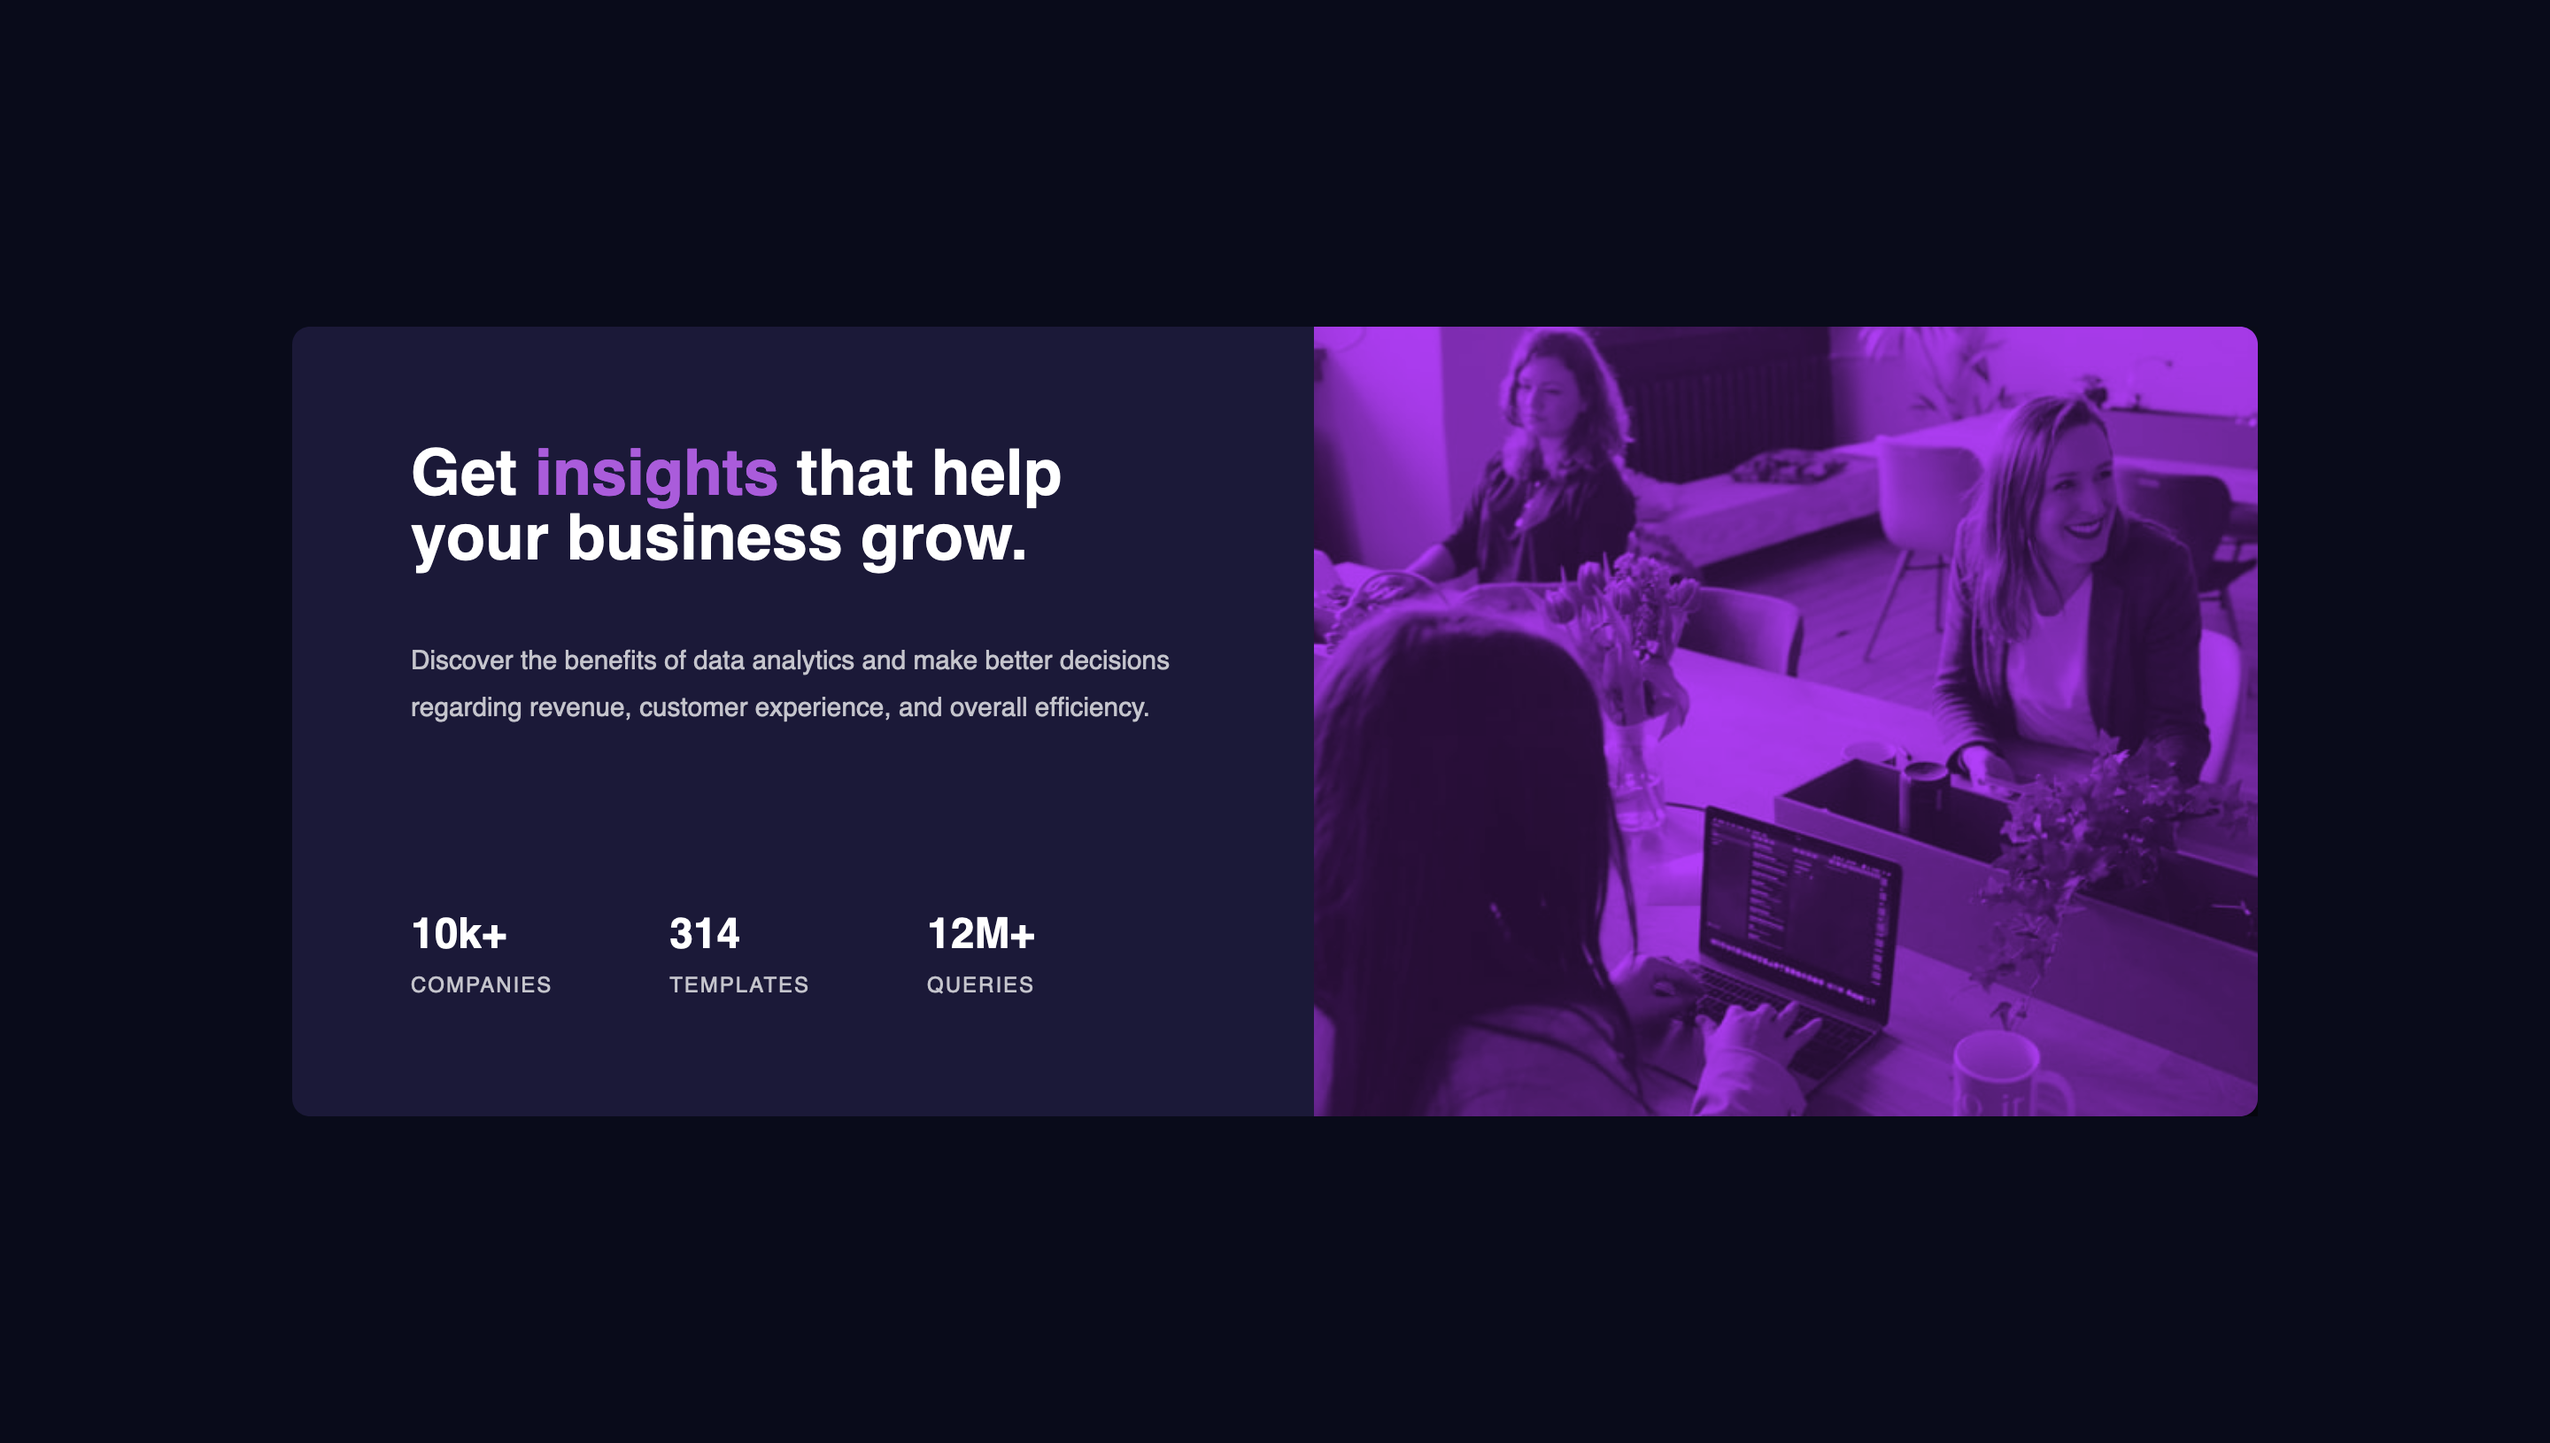
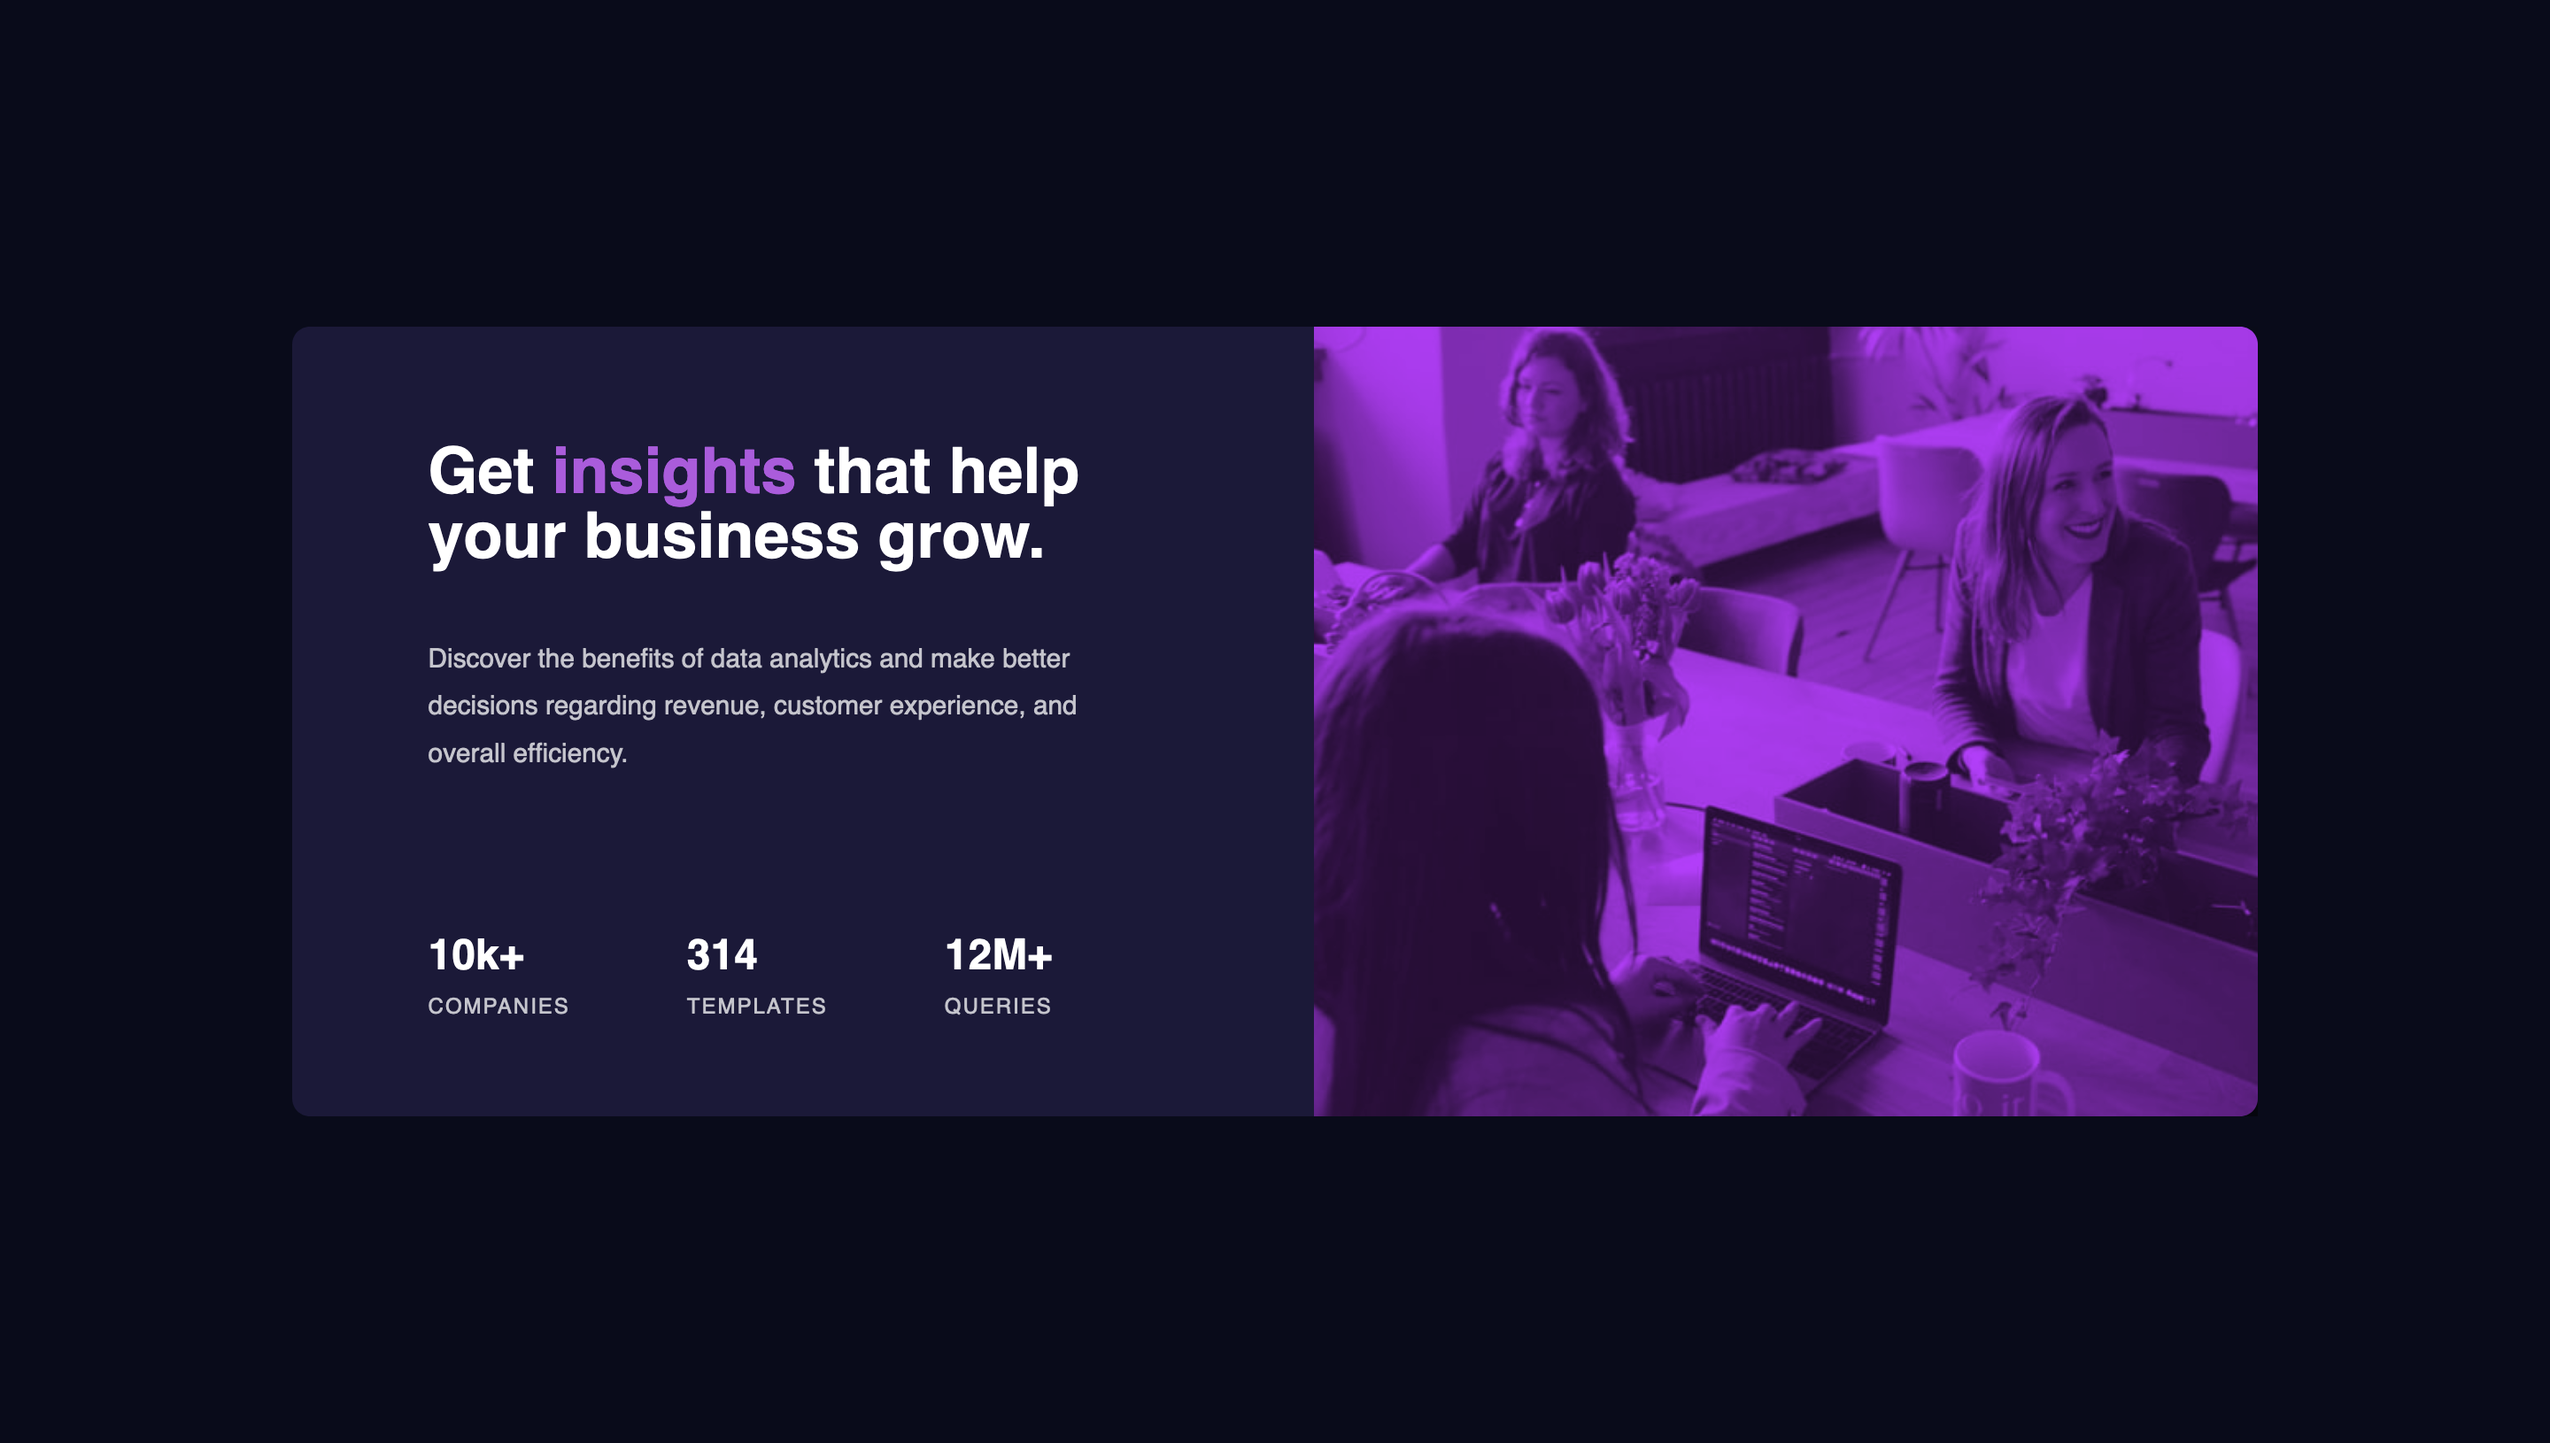
Updated details padding for desktop only. Updated screenshot

diff --git a/scss/styles.scss b/scss/styles.scss
@@ -83,7 +83,7 @@ main {
     }
 
     .details {
-        padding: 4.43em 5.93em 3.69em 5.16;
+        padding: 2em 2.5em 2em 2em;
         text-align: center;
         
         @media(min-width: $min) {
@@ -92,7 +92,7 @@ main {
             text-align: left;
             order: 1;
             width: 52%;
-            padding: 4.5em;
+            padding: 4.43em 5.93em 3.69em 5.16em;
         }
 
         &__heading {

diff --git a/public/css/styles.css b/public/css/styles.css
@@ -59,7 +59,7 @@ main .image-container img {
   opacity: 0.8;
 }
 main .details {
-  padding: 4.43em 5.93em 3.69em 5.16;
+  padding: 2em 2.5em 2em 2em;
   text-align: center;
 }
 @media (min-width: 1024px) {
@@ -69,7 +69,7 @@ main .details {
     text-align: left;
     order: 1;
     width: 52%;
-    padding: 4.5em;
+    padding: 4.43em 5.93em 3.69em 5.16em;
   }
 }
 main .details__heading {
